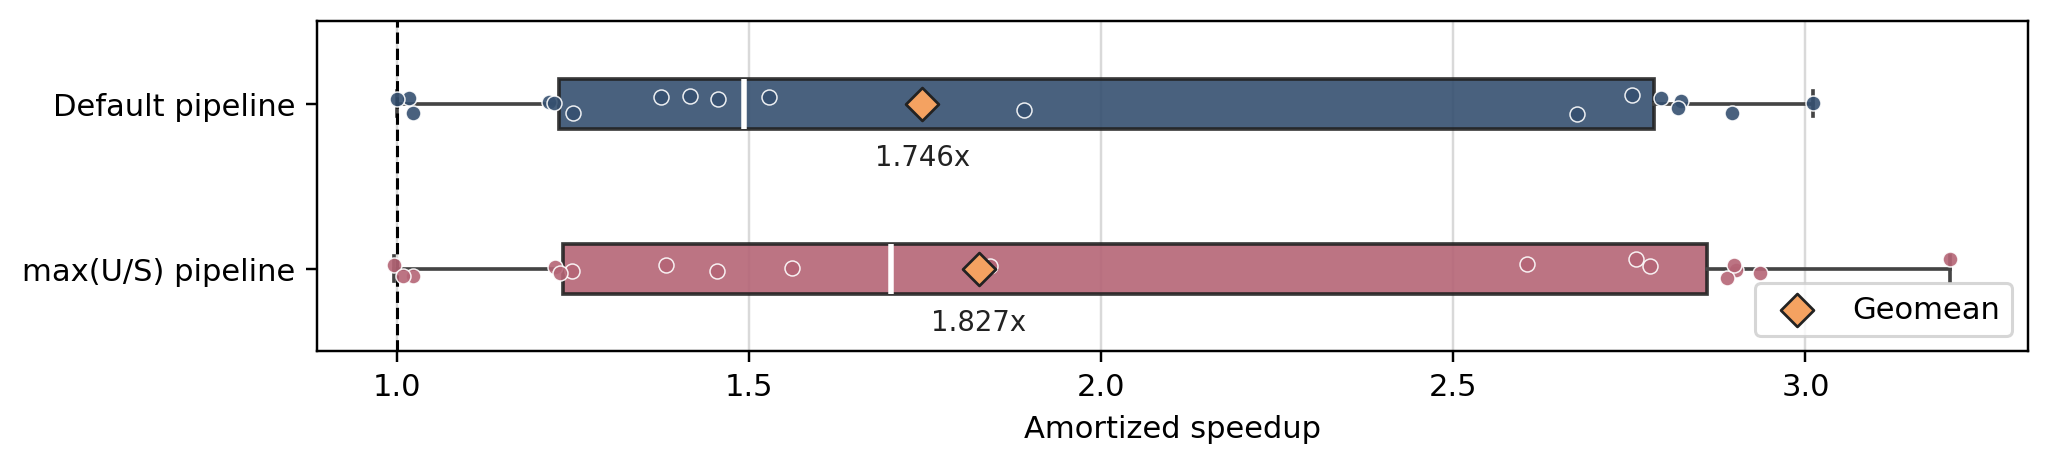
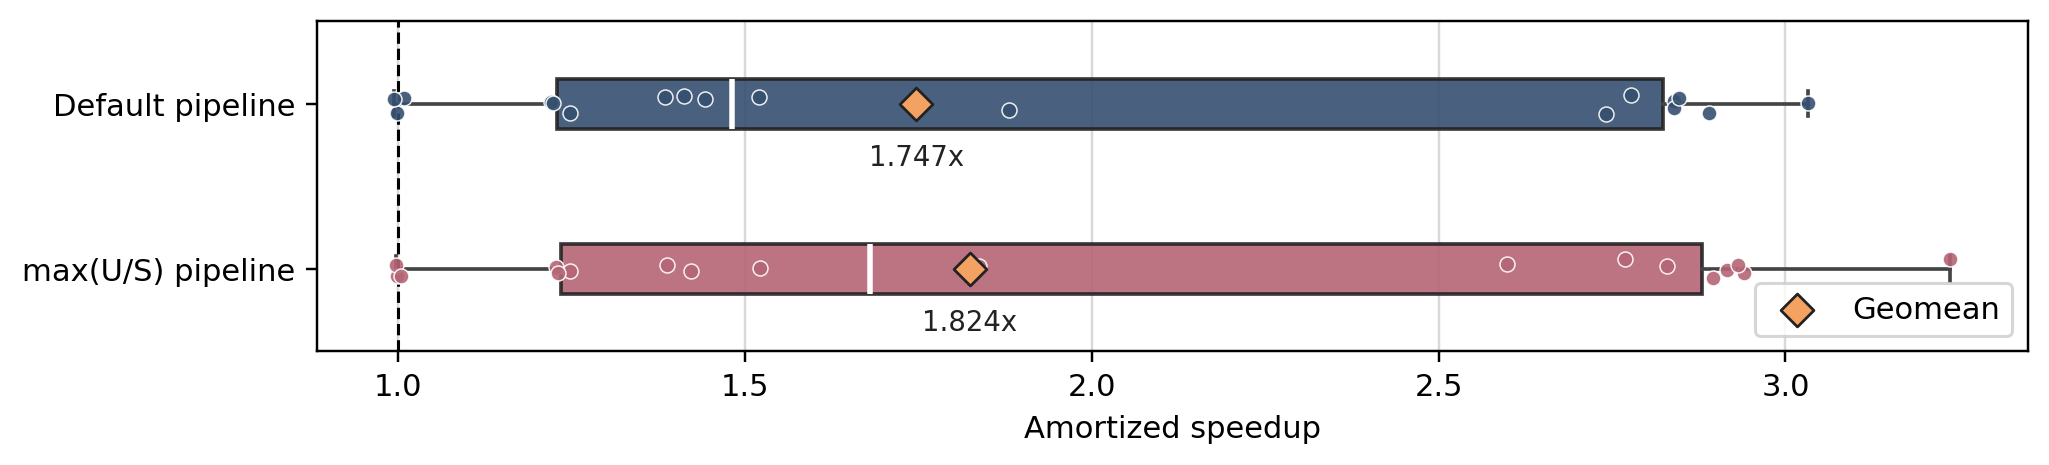
work on rq1

diff --git a/runtime-specialization/benchmarks/reporting/plot_rq1_first_call_quadrants.py b/runtime-specialization/benchmarks/reporting/plot_rq1_first_call_quadrants.py
@@ -4,6 +4,7 @@
 from __future__ import annotations
 
 import argparse
+import math
 import os
 from pathlib import Path
 
@@ -16,6 +17,7 @@ import matplotlib
 matplotlib.use("Agg")
 import matplotlib.pyplot as plt
 from matplotlib.lines import Line2D
+from matplotlib.ticker import FuncFormatter, LogLocator
 import pandas as pd
 
 from report_utils import open_db, resolve_db_path, save_csv, save_plot
@@ -39,6 +41,7 @@ SIZE_MARKERS = {
     "LARGE": "^",
     "EXTRALARGE": "D",
 }
+SIZE_RANK = {name: idx for idx, name in enumerate(SIZE_ORDER)}
 
 
 def _parse_args() -> argparse.Namespace:
@@ -203,6 +206,25 @@ def _plot_points(ax, sub: pd.DataFrame) -> pd.DataFrame:
         raise RuntimeError("No plottable rows found.")
 
     for abstraction in ABSTRACTION_ORDER:
+        series_rows = (
+            defined[defined["abstraction"] == abstraction]
+            .sort_values(["group", "kernel", "abstraction", "size"], key=lambda col: col.map(SIZE_RANK) if col.name == "size" else col)
+        )
+        for (_, kernel_rows) in series_rows.groupby(
+            ["group", "kernel", "abstraction"], sort=False, observed=False
+        ):
+            if len(kernel_rows) < 2:
+                continue
+            ax.plot(
+                kernel_rows["u_over_up"],
+                kernel_rows["first_call_speedup"],
+                color=ABSTRACTION_COLORS[abstraction],
+                linewidth=0.8,
+                alpha=0.22,
+                zorder=2,
+            )
+
+    for abstraction in ABSTRACTION_ORDER:
         for size in SIZE_ORDER:
             mask = (defined["abstraction"] == abstraction) & (defined["size"] == size)
             points = defined[mask]
@@ -220,23 +242,26 @@ def _plot_points(ax, sub: pd.DataFrame) -> pd.DataFrame:
                 zorder=3,
             )
 
-    disagreements = defined[defined["quadrant"].isin(["top_left", "bottom_right"])]
-    for _, row in disagreements.iterrows():
-        ax.annotate(
-            row["label"],
-            (row["u_over_up"], row["first_call_speedup"]),
-            xytext=(5, 4),
-            textcoords="offset points",
-            fontsize=8,
-            color="#222222",
-        )
-
     ax.axvline(1.0, color="black", linestyle="--", linewidth=1.0)
     ax.axhline(1.0, color="black", linestyle="--", linewidth=1.0)
     ax.set_xscale("log")
+    ax.xaxis.set_major_locator(LogLocator(base=10.0))
     ax.grid(True, which="both", axis="both", color="#dddddd", linewidth=0.8)
     ax.set_axisbelow(True)
     return defined
+
+
+def _format_decimal_log_tick(value: float, _: float) -> str:
+    if value <= 0:
+        return ""
+    exponent = round(math.log10(value))
+    if not math.isclose(value, 10 ** exponent, rel_tol=1e-9, abs_tol=0.0):
+        return ""
+    if -2 <= exponent <= 3:
+        if exponent < 0:
+            return f"{value:.{-exponent}f}"
+        return str(int(value))
+    return rf"$10^{{{exponent}}}$"
 
 
 def _add_legends(ax) -> None:
@@ -286,9 +311,10 @@ def _plot_combined(df: pd.DataFrame, output_path: Path) -> None:
         sub = df[df["config_name"] == config_name].copy()
         _plot_points(ax, sub)
         ax.set_title(CONFIG_LABELS[config_name])
-        ax.set_xlabel(r"$U / U_p$")
+        ax.xaxis.set_major_formatter(FuncFormatter(_format_decimal_log_tick))
+        ax.set_xlabel("problem size measured by U/U_p")
 
-    axes[0].set_ylabel(r"$U / (J + S)$")
+    axes[0].set_ylabel("first-call speedup (U/( J+S ))")
     _add_legends(axes[0])
     save_plot(fig, output_path, dpi=220)
     plt.close(fig)

diff --git a/runtime-specialization/specs/TODO.md b/runtime-specialization/specs/TODO.md
@@ -83,6 +83,23 @@ This document is the authoritative reference for high-level tasks required to co
 - **Prerequisite**: None — all data already collected.
 - **Effort**: ~1 hour (writeup + verification against reflection documents).
 
+### RQ1-005: Complete the thesis UC first-call quadrants rerun for `per_uc_best`
+- **Status**: ✅ Complete (2026-06-21)
+- **Data Collected**: Study `corpus_uc_first_call_quadrants_20260620_160209` recorded both configs (`default`, `per_uc_best`) across all intended 18 kernels, all 3 abstraction levels, and all 4 sizes under best-practice controls. Coverage is complete at 6470 phase rows / 1294 distinct tuples; the missing two tuples from the old 1296 expectation are the intentionally omitted `count_matching_rows` `abstract` `EXTRALARGE` `specialized_exec` points (one per config).
+- **Why**: This unblocks regeneration of the thesis-grade RQ1 table, boxplot, and 4-quadrant figure from a single completed study without mixing partial shard studies.
+- **Outcome**: `benchmarks/reporting/plot_rq1_first_call_quadrants.py` and the related RQ1 export scripts can now be rerun directly against `corpus_uc_first_call_quadrants_20260620_160209`.
+- **Reference**: `benchmarks/run_thesis_uc_first_call_quadrants.sh`; study `corpus_uc_first_call_quadrants_20260620_160209`
+- **Supersedes**: Partial study `corpus_uc_first_call_quadrants_20260619_153349`; report dir `benchmarks/reports/20260619_153349-thesis-uc-first-call-quadrants/`
+
+### RQ1-006: Resolve incomplete source data for the thesis size-scaling figure
+- **Status**: 🟡 Partially Blocked
+- **Data Needed**: Either the missing `box_filter` `EXTRALARGE` point for the thesis source run `260517-15-04-size_scaling`, or an explicit thesis/prose decision that the figure intentionally shows only the three measured `box_filter` sizes.
+- **Why**: `specs/PLAN.md` points `rq1_size_scaling.png` at `260517-15-04-size_scaling` with kernels `box_filter`, `generic_sort`, and `multi_pattern_match`, but the stored CSV currently has only 3 size rows for `box_filter` while the other two kernels have 4.
+- **Outcome**: The size-scaling figure has unambiguous provenance and complete/intentional coverage for each displayed kernel.
+- **Reference**: `benchmarks/reporting/plot_thesis_size_scaling.py`; `benchmarks/reports/260517-15-04-size_scaling/data.csv`; `specs/PLAN.md`
+- **Prerequisite**: None if the thesis accepts the partial line; otherwise locate or regenerate the missing point.
+- **Effort**: ~15-60 minutes depending on whether the missing point can be recovered from existing artifacts.
+
 ---
 
 ## Evaluation: Research Question 2 (RQ2) — Binary-Size Overhead
